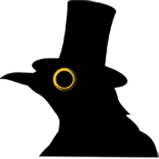
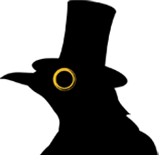
edits post-meeting

Changed region(s): [[0.0, 0.1548, 1.0, 1.0], [0.327, 0.4129, 0.5031, 0.5935], [0.6792, 0.0258, 0.7296, 0.1548]]

diff --git a/_assets/css/styles.css b/_assets/css/styles.css
@@ -454,7 +454,8 @@ header li a:hover.contact {
   background: url(/_assets/img/hover-contact.png) no-repeat center center #febf10;
 }
 header #crow {
-  background: url(/_assets/img/crow.png) no-repeat 84% 7px transparent;
+  background: url(/_assets/img/crow.png) no-repeat 84% bottom transparent;
+  min-height: 155px;
 }
 header #crow img {
   padding: 4px 0 21px 130px;
@@ -948,7 +949,7 @@ section#film div.container img {
 section#film div.container article#text {
   display: inline-block;
   vertical-align: bottom;
-  width: 20%;
+  width: 27%;
   padding: 0 0 0 37px;
 }
 section#film div.container article#text h1 {
@@ -971,7 +972,7 @@ section#film div.container article#text h2 a:hover {
 }
 section#film div.container article#portal {
   display: inline-block;
-  width: 59%;
+  width: 46%;
   margin: 0 20% 0 0;
   background: url(/_assets/img/film.png) no-repeat center center transparent;
   background-size: contain;
@@ -1082,6 +1083,9 @@ section#design div.container div#design-container article.piece img {
   section#contact div.cans {
     background-position: center 40px;
   }
+  header #crow img {
+    padding: 4px 30px 21px 100px;
+  }
 }
 @media screen and (max-width: 1000px) {
   html {
@@ -1102,6 +1106,9 @@ section#design div.container div#design-container article.piece img {
   section#about div.container article#desk {
     padding: 64px 0 70px;
   }
+  header #crow img {
+    width: 60%;
+  }
 }
 @media screen and (max-width: 900px) {
   html {
@@ -1121,6 +1128,7 @@ section#design div.container div#design-container article.piece img {
     padding: 70px 50px 10px 20px;
     border-left: 7px solid #000000;
     border-bottom: 7px solid #000000;
+    z-index: 3;
   }
   header nav.expand li {
     display: block;
@@ -1135,10 +1143,14 @@ section#design div.container div#design-container article.piece img {
     position: absolute;
     right: 10px;
     top: 10px;
-    z-index: 2;
+    z-index: 4;
   }
   header #crow {
-    margin-top: 43px;
+    margin-top: 0;
+    min-height: 125px;
+  }
+  header #crow img {
+    padding: 40px 30px 50px 100px;
   }
   section#film div.container article#portal img {
     padding: 220px 0px 190px;
@@ -1190,7 +1202,7 @@ section#design div.container div#design-container article.piece img {
   }
   header #crow {
     margin-top: 40px;
-    background-position: 85% 7px;
+    background-position: 85% bottom;
   }
   header #crow img {
     padding: 22px 0px 20px 80px;
@@ -1278,11 +1290,18 @@ section#design div.container div#design-container article.piece img {
     background-position: center 100px;
     padding-bottom: 60px;
   }
+  header #crow {
+    margin-top: 0;
+  }
+  header #crow img {
+    padding: 60px 0px 40px 50px;
+    width: 50%;
+  }
 }
 @media screen and (max-width: 400px) {
   header #crow {
     margin-top: 10px;
-    background-position: 105% 3px;
+    background-position: 105% bottom;
   }
   header #crow img {
     width: 80%;

diff --git a/_assets/css/less/responsive.less b/_assets/css/less/responsive.less
@@ -40,6 +40,9 @@
 	section#contact div.cans {
 		background-position: center 40px;
 	}
+	header #crow img {
+		padding: 4px 30px 21px 100px;
+	}
 }
 
 @media screen and (max-width: 1000px) {
@@ -61,6 +64,9 @@
 	section#about div.container article#desk {
 		padding: 64px 0 70px;
 	}
+	header #crow img {
+		width: 60%;
+	}
 }
 
 @media screen and (max-width: 900px) {
@@ -80,6 +86,7 @@
 			padding: 70px 50px 10px 20px;
 			border-left: 7px solid @black;
 			border-bottom: 7px solid @black;
+			z-index: 3;
 			li {
 				display: block;
 				margin: 30px 0;
@@ -95,10 +102,14 @@
 		position: absolute;
 		right: 10px;
 		top: 10px;
-		z-index: 2;
+		z-index: 4;
 	}
 	header #crow {
-		margin-top: 43px;
+		margin-top: 0;
+		min-height: 125px;
+	}
+	header #crow img {
+		padding: 40px 30px 50px 100px;
 	}
 	section#film div.container article#portal img {
 		padding: 220px 0px 190px;
@@ -152,7 +163,7 @@
 	}
 	header #crow {
 		margin-top: 40px;
-		background-position: 85% 7px;
+		background-position: 85% bottom;
 	}
 	header #crow img {
 		padding: 22px 0px 20px 80px;
@@ -240,12 +251,19 @@
 		background-position: center 100px;
 		padding-bottom: 60px;
 	}
+	header #crow {
+		margin-top: 0;
+	}
+	header #crow img {
+		padding: 60px 0px 40px 50px;
+		width: 50%;
+	}
 }
 
 @media screen and (max-width: 400px) {
 	header #crow {
 		margin-top: 10px;
-		background-position: 105% 3px;
+		background-position: 105% bottom;
 	}
 	header #crow img {
 		width: 80%;

diff --git a/_assets/css/less/pages/film.less b/_assets/css/less/pages/film.less
@@ -11,7 +11,7 @@ section#film {
 		article#text {
 			display: inline-block;
 			vertical-align: bottom;
-			width: 20%;
+			width: 27%;
 			padding: 0 0 0 37px;
 			h1 {
 				padding-bottom: 8px;
@@ -30,7 +30,7 @@ section#film {
 		}
 		article#portal {
 			display: inline-block;
-			width: 59%;
+			width: 46%;
 			margin: 0 20% 0 0;
 			background: url(/_assets/img/film.png) no-repeat center center transparent;
 			background-size: contain;

diff --git a/_assets/css/less/organisms/header.less b/_assets/css/less/organisms/header.less
@@ -62,7 +62,8 @@ header {
 		}
 	}
 	#crow {
-		background: url(/_assets/img/crow.png) no-repeat 84% 7px transparent;
+		background: url(/_assets/img/crow.png) no-repeat 84% bottom transparent;
+		min-height: 155px;
 		img {
 			padding: 4px 0 21px 130px;
 			width: 65%;

diff --git a/design.php b/design.php
@@ -6,6 +6,16 @@
 <script type="text/javascript">
   $(document).ready(function() {
     $('.fancybox').fancybox();
+			$(".fancybox-effects-a").fancybox({
+				helpers: {
+					title : {
+						type : 'outside'
+					},
+					overlay : {
+						speedOut : 0
+					}
+				}
+			});
   });
 </script>
 <script src="/_assets/js/jquery.fancybox.js"></script>
@@ -44,51 +54,51 @@
 		    <div id="design-container" class="clearfix">
 
 		      	<article class="piece websites">
-		      		<a href="/_assets/img/portfolio-website-hudson.jpg" class="fancybox" rel="websites"><img src="/_assets/img/thumb-website-hudson.jpg" alt="web design for the Bill Hudson Agency" title="web design for the Bill Hudson Agency"></a>
+		      		<a href="/_assets/img/portfolio-website-hudson.jpg" class="fancybox" rel="websites" title="Web design for the Bill Hudson Agency"><img src="/_assets/img/thumb-website-hudson.jpg" alt="web design for the Bill Hudson Agency"></a>
 		      	</article>
 
 		      	<article class="piece posters">
-		      		<a href="/_assets/img/portfolio-poster-duty.jpg" class="fancybox"><img src="/_assets/img/thumb-poster-duty.jpg" alt="Duty of the Hour poster" title="Duty of the Hour poster"></a>
+		      		<a href="/_assets/img/portfolio-poster-duty.jpg" class="fancybox" title="Duty of the Hour poster"><img src="/_assets/img/thumb-poster-duty.jpg" alt="Duty of the Hour poster"></a>
 		      	</article>
 
 		      	<article class="piece branding">
-		      		<a href="/_assets/img/portfolio-branding-vintage.jpg" class="fancybox"><img src="/_assets/img/thumb-branding-vintage.jpg" alt="Village Vintage and Homegoods logo" title="Village Vintage and Homegoods logo"></a>
+		      		<a href="/_assets/img/portfolio-branding-vintage.jpg" class="fancybox" title="Village Vintage and Homegoods logo"><img src="/_assets/img/thumb-branding-vintage.jpg" alt="Village Vintage and Homegoods logo"></a>
 		      	</article>
 
 		      	<article class="piece brochures">
-		      		<a href="/_assets/img/portfolio-brochure-nutcracker.jpg" class="fancybox"><img src="/_assets/img/thumb-brochure-nutcracker.jpg" alt="Mini-Nutcracker brochure" title="Mini-Nutcracker brochure"></a>
+		      		<a href="/_assets/img/portfolio-brochure-nutcracker.jpg" class="fancybox" title="Mini-Nutcracker brochure"><img src="/_assets/img/thumb-brochure-nutcracker.jpg" alt="Mini-Nutcracker brochure"></a>
 		      	</article>
 
 		      	<article class="piece brochures">
-		      		<a href="/_assets/img/portfolio-brochure-push.jpg" class="fancybox"><img src="/_assets/img/thumb-brochure-push.jpg" alt="Push Childbirth Education brochure" title="Push Childbirth Education brochure"></a>
+		      		<a href="/_assets/img/portfolio-brochure-push.jpg" class="fancybox" title="Push Childbirth Education brochure"><img src="/_assets/img/thumb-brochure-push.jpg" alt="Push Childbirth Education brochure"></a>
 		      	</article>
 
 		      	<article class="piece websites">
-		      		<a href="/_assets/img/portfolio-website-rosepepper.jpg" class="fancybox"><img src="/_assets/img/thumb-website-rosepepper.jpg" alt="Rosepepper Cantina website" title="Rosepepper Cantina website"></a>
+		      		<a href="/_assets/img/portfolio-website-rosepepper.jpg" class="fancybox" title="Rosepepper Cantina website"><img src="/_assets/img/thumb-website-rosepepper.jpg" alt="Rosepepper Cantina website"></a>
 		      	</article>
 
 		      	<article class="piece branding">
-		      		<a href="/_assets/img/portfolio-logo-pure.jpg" class="fancybox"><img src="/_assets/img/thumb-logo-pure.jpg" alt="Pure Body Revolution logo" title="Pure Body Revolution logo"></a>
+		      		<a href="/_assets/img/portfolio-logo-pure.jpg" class="fancybox" title="Pure Body Revolution logo"><img src="/_assets/img/thumb-logo-pure.jpg" alt="Pure Body Revolution logo"></a>
 		      	</article>
 
 		      	<article class="piece websites">
-		      		<a href="/_assets/img/portfolio-website-ceramics.jpg" class="fancybox"><img src="/_assets/img/thumb-website-ceramics.jpg" alt="Mid-South Ceramics website" title="Mid-South Ceramics website"></a>
+		      		<a href="/_assets/img/portfolio-website-ceramics.jpg" class="fancybox" title="Mid-South Ceramics website"><img src="/_assets/img/thumb-website-ceramics.jpg" alt="Mid-South Ceramics website"></a>
 		      	</article>
 
 		      	<article class="piece t-shirts">
-		      		<a href="/_assets/img/portfolio-shirt-travis.jpg" class="fancybox"><img src="/_assets/img/thumb-shirt-travis.jpg" alt="Travis Meadows t-shirt" title="Travis Meadows t-shirt"></a>
+		      		<a href="/_assets/img/portfolio-shirt-travis.jpg" class="fancybox" title="Travis Meadows t-shirt"><img src="/_assets/img/thumb-shirt-travis.jpg" alt="Travis Meadows t-shirt"></a>
 		      	</article>
 
 		      	<article class="piece packaging">
-		      		<a href="/_assets/img/portfolio-cd-travis.jpg" class="fancybox"><img src="/_assets/img/thumb-cd-travis.jpg" alt="Travis Meadows cd" title="Travis Meadows cd"></a>
+		      		<a href="/_assets/img/portfolio-cd-travis.jpg" class="fancybox" title="Travis Meadows cd"><img src="/_assets/img/thumb-cd-travis.jpg" alt="Travis Meadows cd"></a>
 		      	</article>
 
 		      	<article class="piece posters">
-		      		<a href="/_assets/img/portfolio-poster-country.jpg" class="fancybox"><img src="/_assets/img/thumb-poster-country.jpg" alt="Good Country People Party poster" title="Good Country People Party poster"></a>
+		      		<a href="/_assets/img/portfolio-poster-country.jpg" class="fancybox" title="Good Country People Party poster"><img src="/_assets/img/thumb-poster-country.jpg" alt="Good Country People Party poster"></a>
 		      	</article>
 
 		      	<article class="piece branding">
-		      		<a href="/_assets/img/portfolio-logo-hands.jpg" class="fancybox"><img src="/_assets/img/thumb-logo-hands.jpg" alt="Hands 4 NY logo" title="Hands 4 NY logo"></a>
+		      		<a href="/_assets/img/portfolio-logo-hands.jpg" class="fancybox" title="Hands 4 NY logo"><img src="/_assets/img/thumb-logo-hands.jpg" alt="Hands 4 NY logo"></a>
 		      	</article>
 
 		      	<article class="piece websites posters branding brochures t-shirts packaging">

diff --git a/index.php b/index.php
@@ -25,7 +25,7 @@
 
 				<a class="social facebook" href="https://www.facebook.com/pages/Tell-tale-Media/402897546389144?ref=hl" target="_blank" rel="nofollow"><img src="/_assets/img/icon-facebook.png" alt="Facebook icon"/></a>
 
-				<a class="social instagram" href="#" target="_blank" rel="nofollow"><img src="/_assets/img/icon-instagram.png" alt="Instagram icon"/></a>
+				<a class="social instagram" href="https://instagram.com/telltale_media/" target="_blank" rel="nofollow"><img src="/_assets/img/icon-instagram.png" alt="Instagram icon"/></a>
 
 			</article><!--typewriter-->
 

diff --git a/contact.php b/contact.php
@@ -25,7 +25,7 @@
 
 				<a class="social vimeo" href="https://vimeo.com/ttmnashville" target="_blank" rel="nofollow"><img src="/_assets/img/icon-vimeo-k.png" alt="Vimeo icon"/></a>
 
-				<a class="social instagram" href="#" target="_blank" rel="nofollow"><img src="/_assets/img/icon-instagram.png" alt="Instagram icon"/></a>
+				<a class="social instagram" href="https://instagram.com/telltale_media/" target="_blank" rel="nofollow"><img src="/_assets/img/icon-instagram.png" alt="Instagram icon"/></a>
 
 			</div><!--socials-->
 

diff --git a/_assets/inc/navigation.php b/_assets/inc/navigation.php
@@ -20,7 +20,7 @@
 						<li><a href="/about-us" class="about">About Us</a></li>
 						<li><a href="/film" class="film">Film</a></li>
 						<li><a href="/design" class="design">Design</a></li>
-						<li><a href="/ttm" class="ttm">#tt_m</a></li>
+						<li><a href="https://instagram.com/telltale_media/" target="_blank" rel="nofollow" class="ttm">#tt_m</a></li>
 						<li><a href="/contact" class="contact">Contact</a></li>
 					</ul>
 
